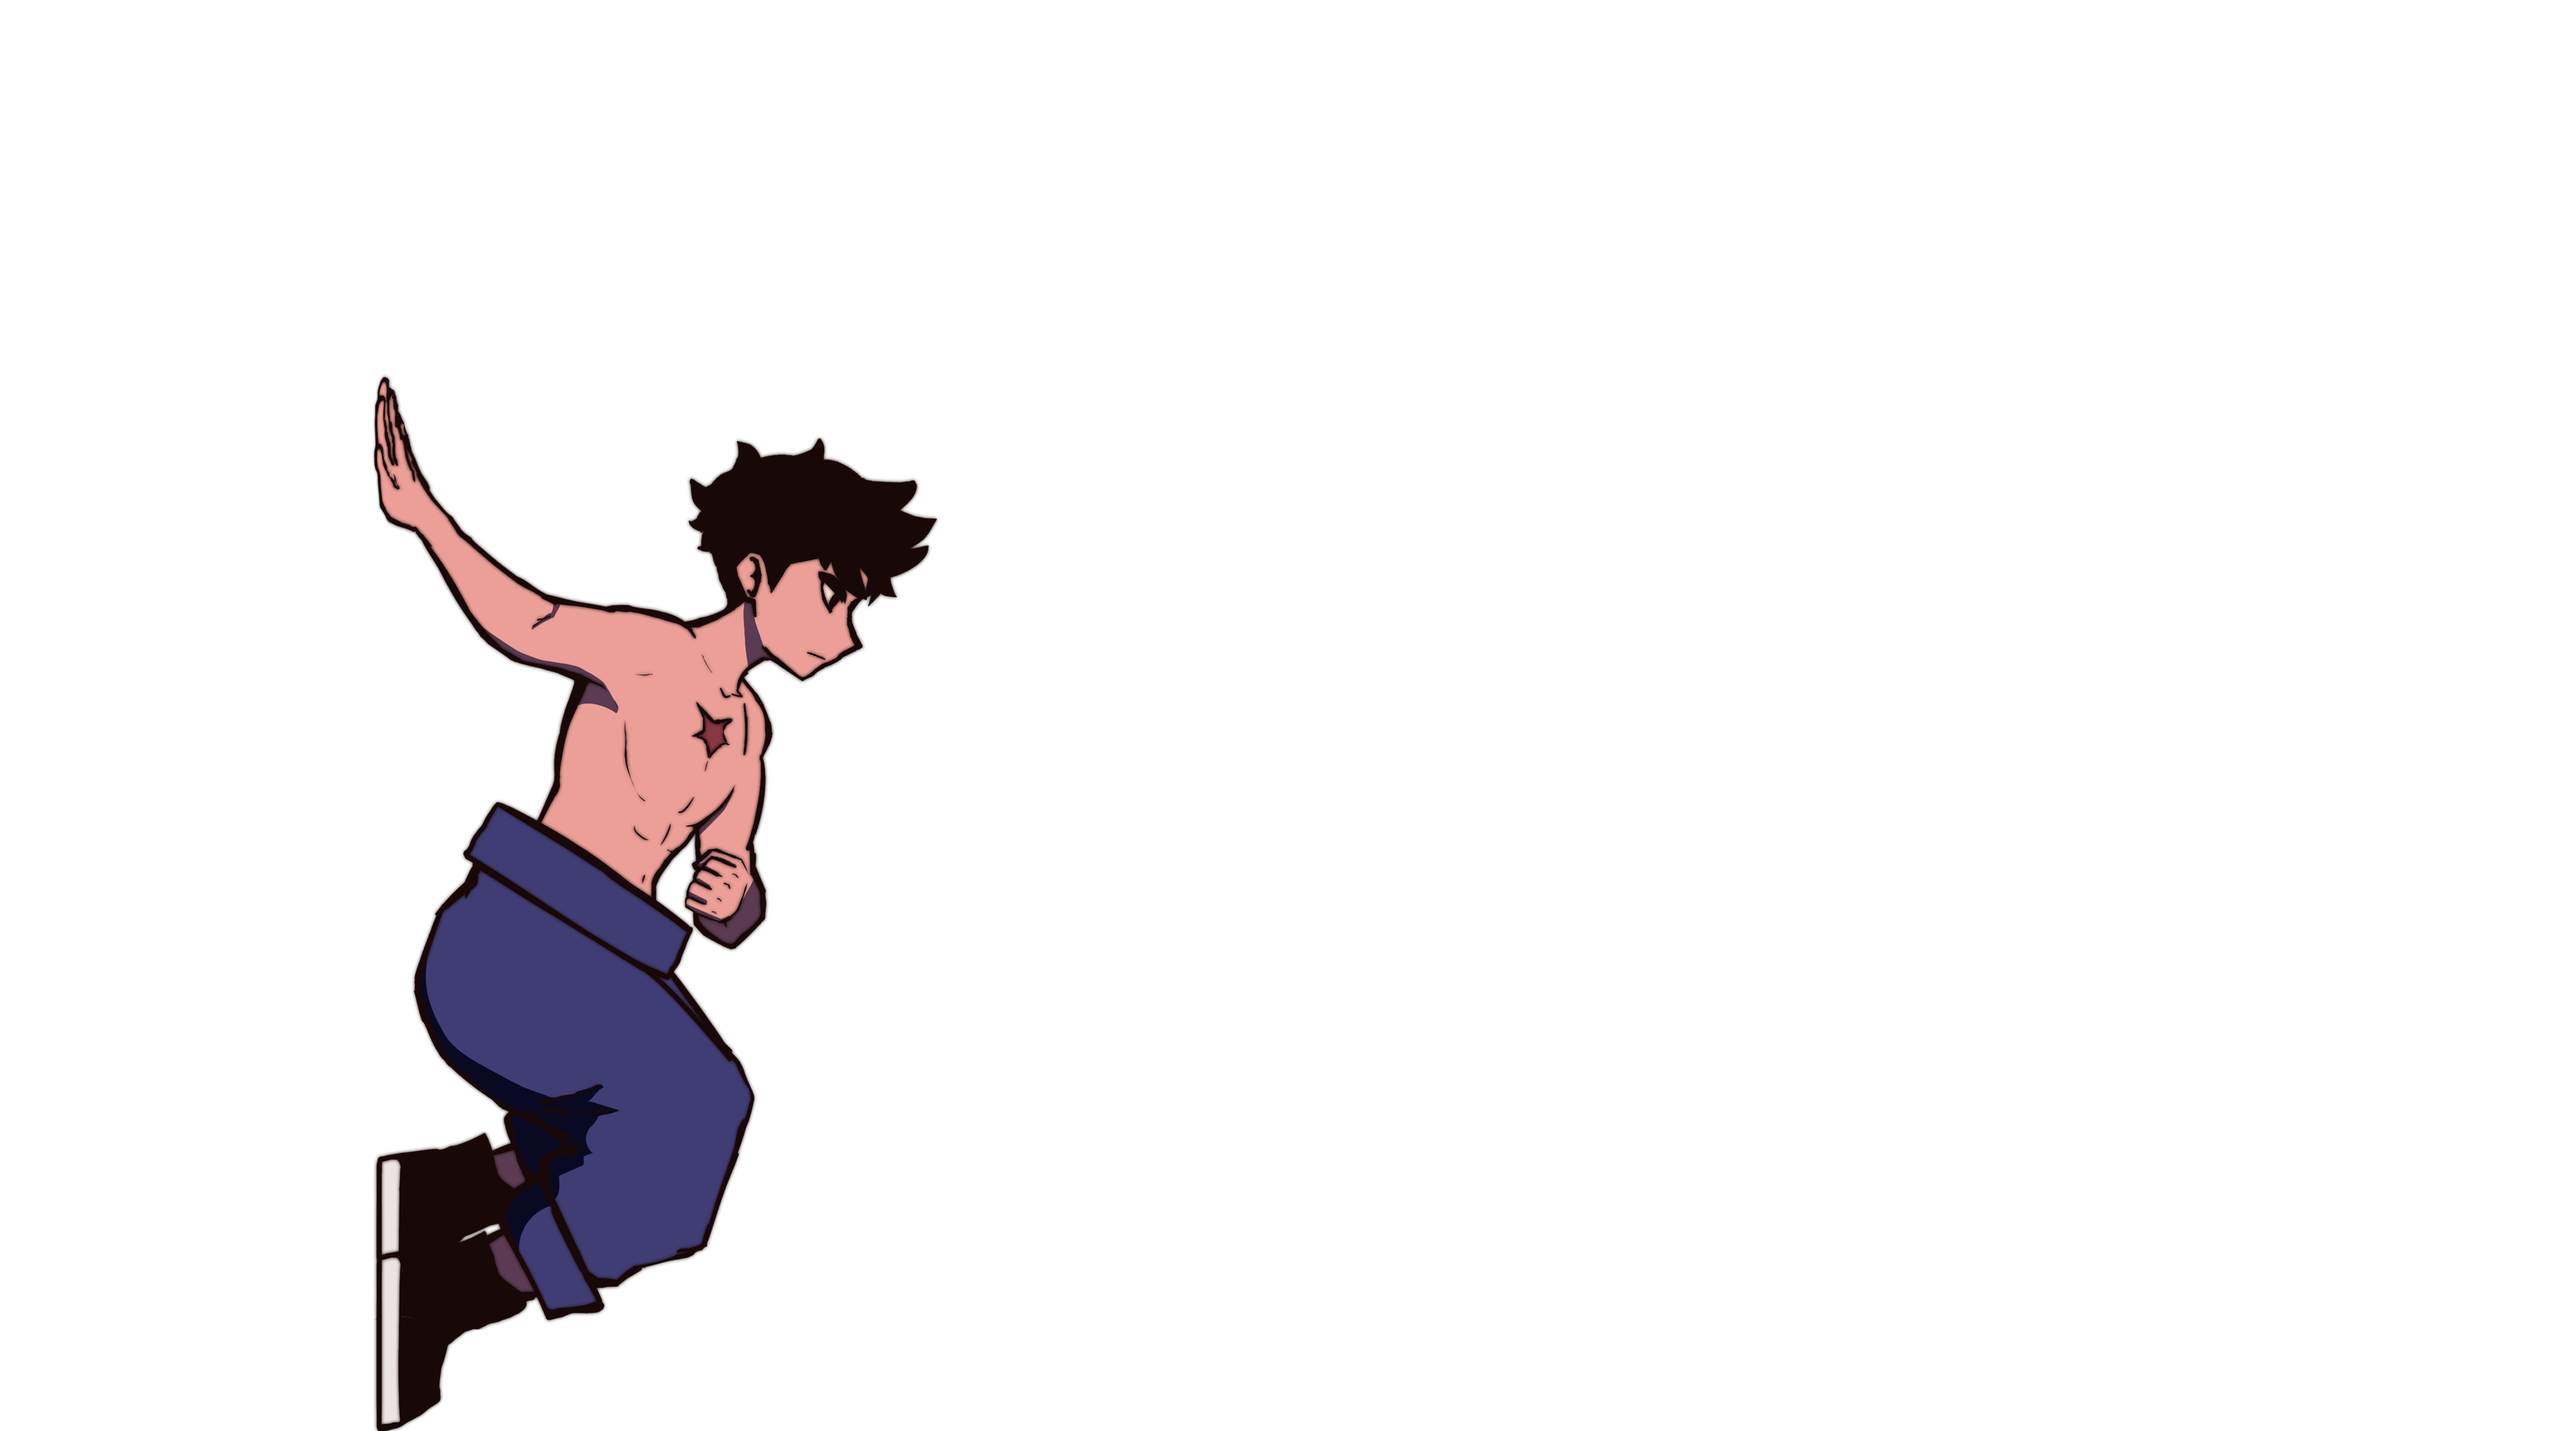
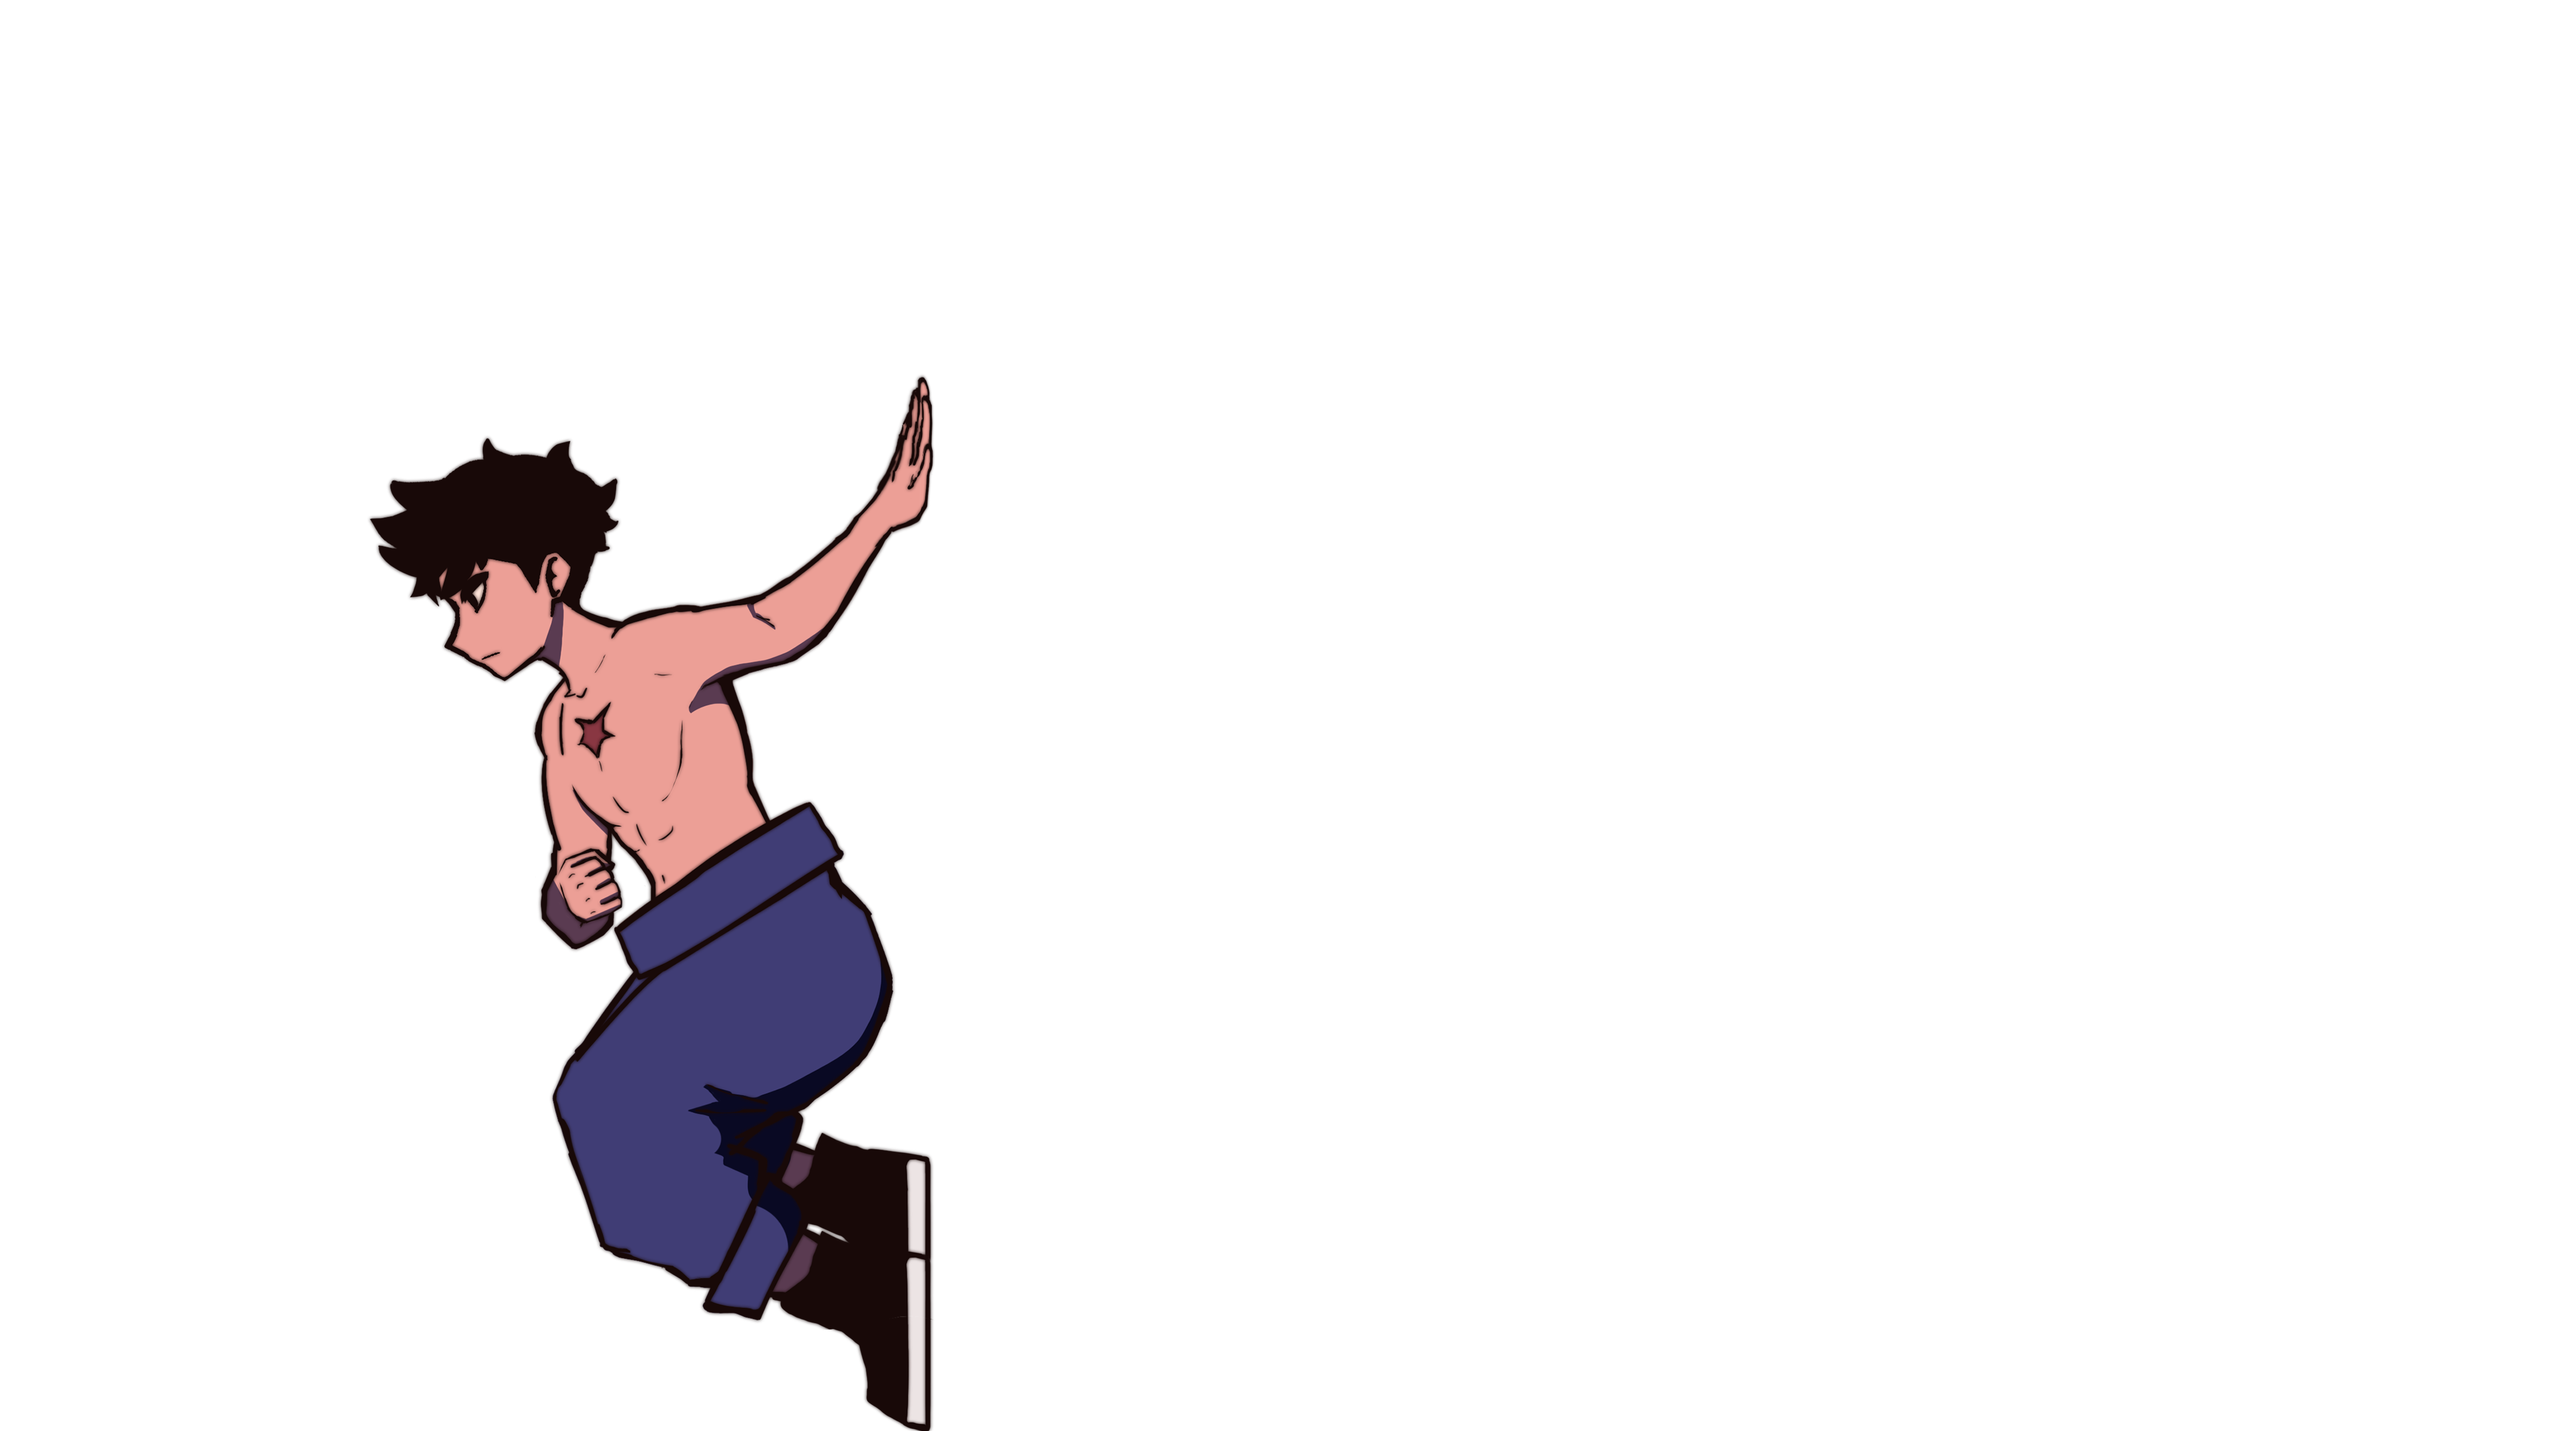
-Sprite Arrumado -Transição sem Cor

Changed region(s): [[0.1249, 0.2478, 0.3747, 1.0]]

diff --git a/Assets/Scripts Jogo/UI/CutsceneManager.cs b/Assets/Scripts Jogo/UI/CutsceneManager.cs
@@ -213,7 +213,6 @@ public class CutsceneManager : MonoBehaviour
         if (cutsceneImages != null && cutsceneImages.Length > 0 && displayImage != null)
         {
             displayImage.sprite = cutsceneImages[0];
-            displayImage.color = new Color(1, 1, 1, 1);
             UpdateUI();
         }
         else
@@ -313,12 +312,10 @@ public class CutsceneManager : MonoBehaviour
         while (elapsedTime < fadeDuration)
         {
             float alpha = Mathf.Lerp(0, 1, elapsedTime / fadeDuration);
-            displayImage.color = new Color(1, 1, 1, alpha);
             elapsedTime += Time.deltaTime;
             yield return null;
         }
 
-        displayImage.color = new Color(1, 1, 1, 1);
     }
 
     IEnumerator FadeOut()
@@ -330,12 +327,10 @@ public class CutsceneManager : MonoBehaviour
         while (elapsedTime < fadeDuration)
         {
             float alpha = Mathf.Lerp(1, 0, elapsedTime / fadeDuration);
-            displayImage.color = new Color(1, 1, 1, alpha);
             elapsedTime += Time.deltaTime;
             yield return null;
         }
 
-        displayImage.color = new Color(1, 1, 1, 0);
     }
 
     void UpdateUI()
